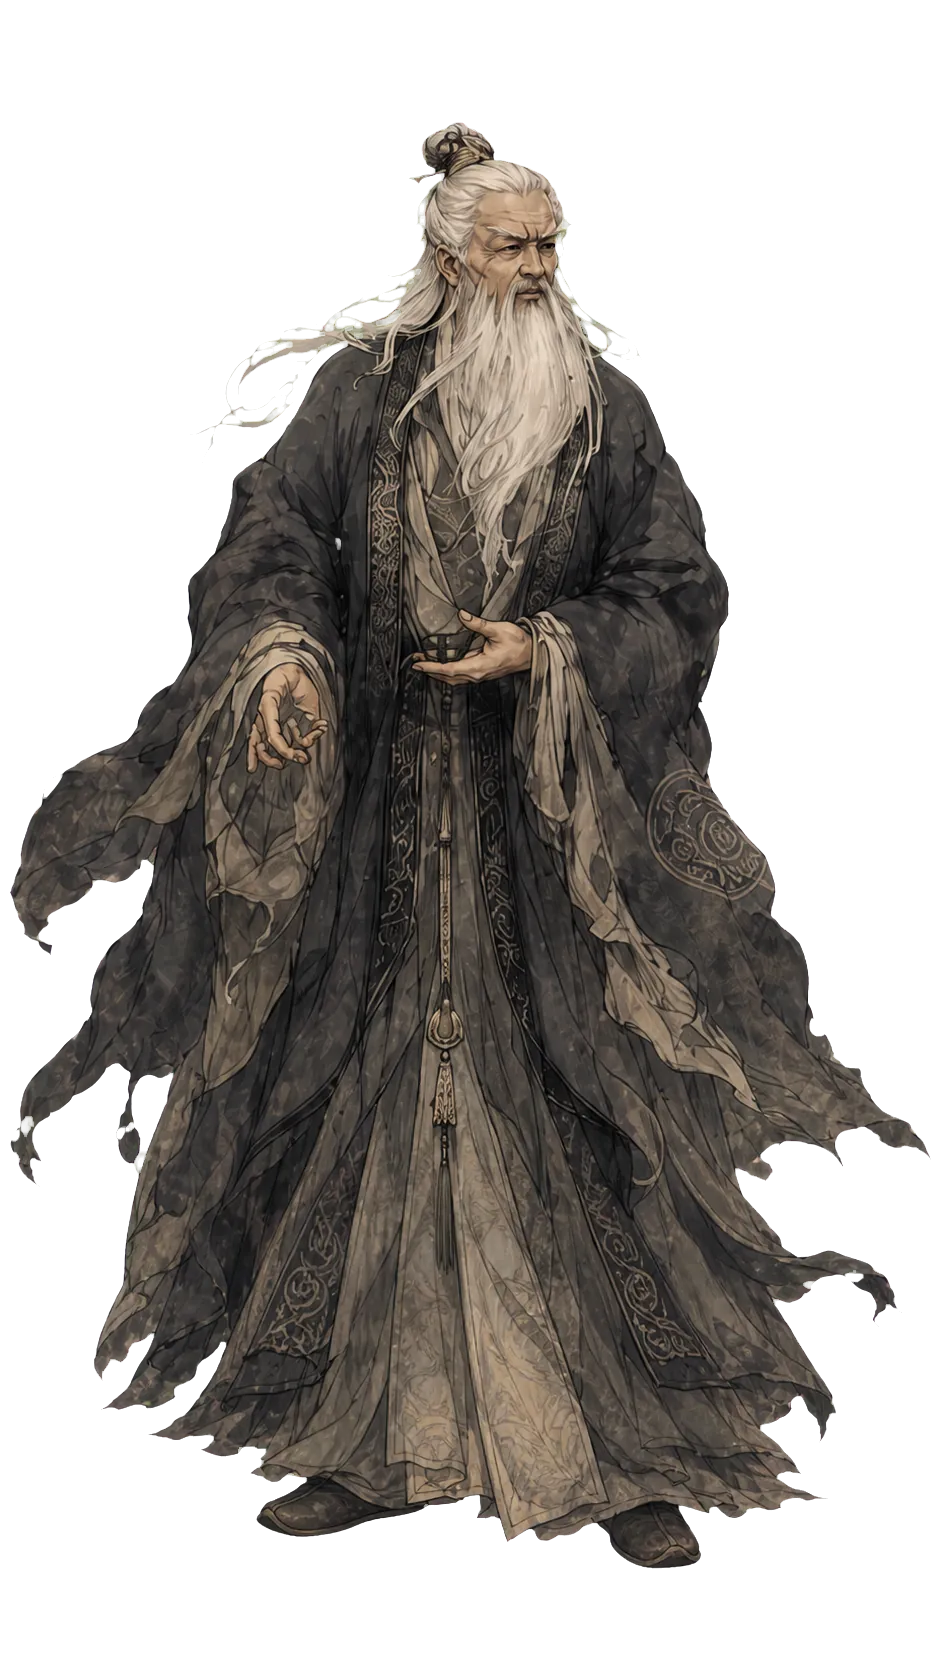
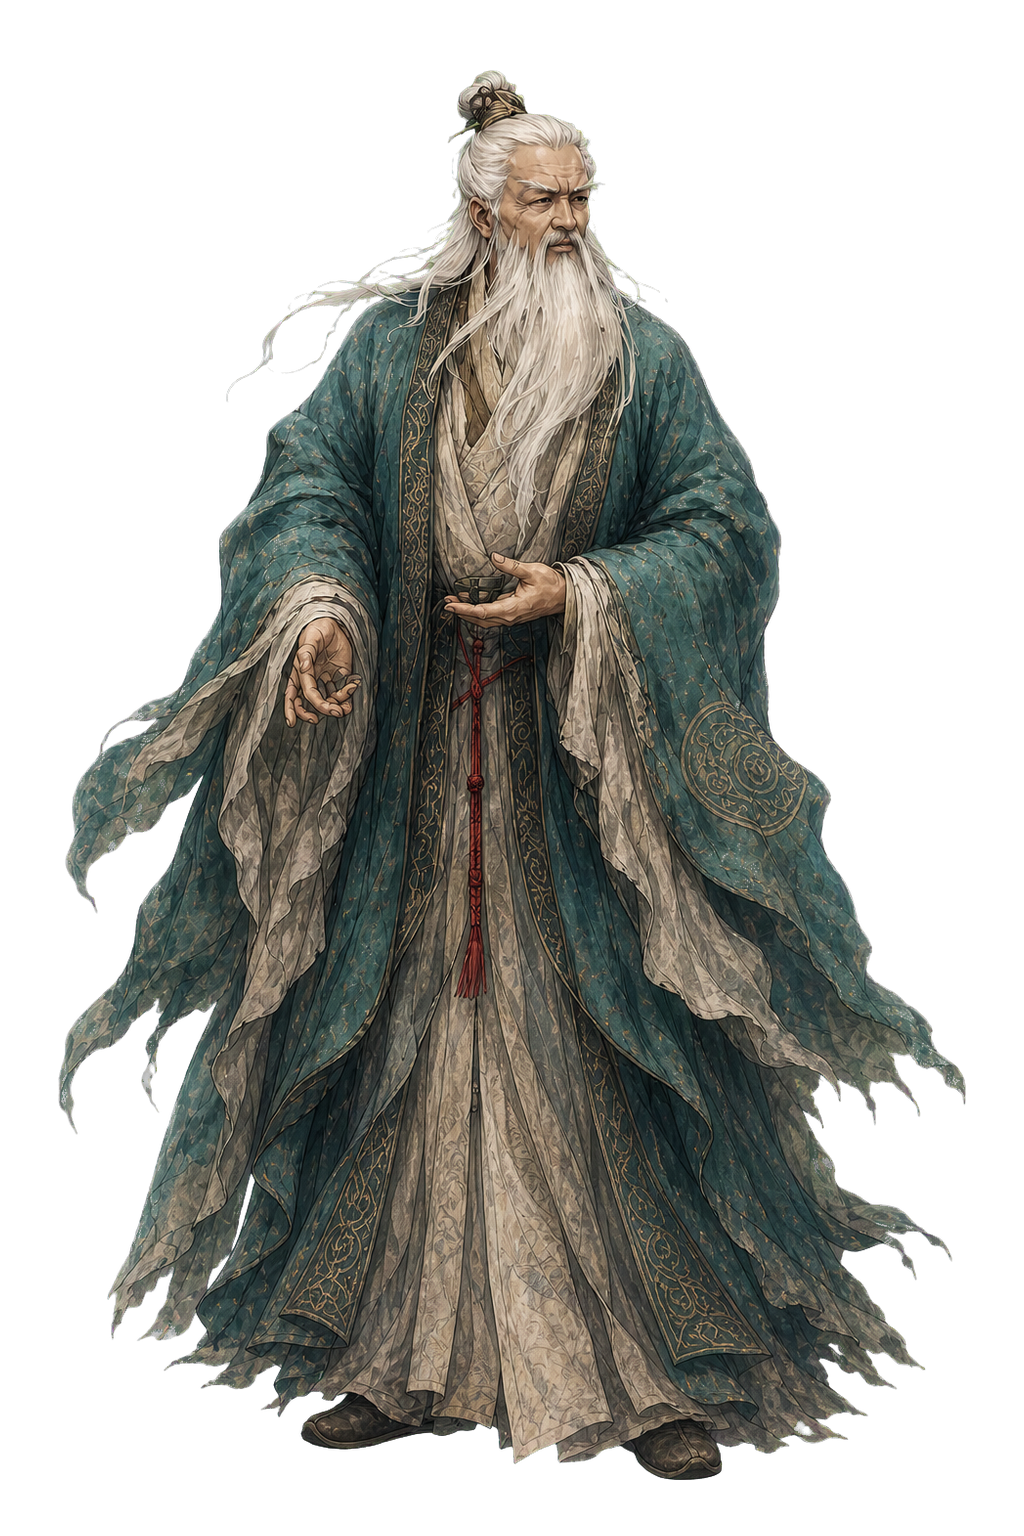
我方 3 张战斗立绘重出接线:批 C 归一体例+冷色相代际统一(BACKLOG 一#14 方案 a)

diff --git a/lib/features/battle/presentation/character_avatar.dart b/lib/features/battle/presentation/character_avatar.dart
@@ -1404,10 +1404,12 @@ const _battleStandeeOverrides = <String, String>{
 const _stageStandeeAnchorFootFraction = 0.95;
 
 double battleStandeeFootFraction(String? path) => switch (path) {
-  WuxiaUi.battleFounderFallback => 0.938,
-  WuxiaUi.battleFirstDiscipleFallback => 0.961,
+  // 2026-08-05 色调代际批:我方三张重出为批 C 归一体例(1024×1536,bbox 上 70/
+  // 下 1480,纵跨 1410),脚底 fraction 三张 PIL 实测均 1480/1536=0.9635。
+  WuxiaUi.battleFounderFallback => 0.9635,
+  WuxiaUi.battleFirstDiscipleFallback => 0.9635,
   WuxiaUi.battleSampleFirstDiscipleStandee => 0.999,
-  WuxiaUi.battleSecondDiscipleFallback => 0.957,
+  WuxiaUi.battleSecondDiscipleFallback => 0.9635,
   WuxiaUi.battleHiddenElderStandee => 0.952,
   WuxiaUi.battleSampleHiddenElderStandee => 0.942,
   WuxiaUi.battleBanditBladeStandee => 0.823,
@@ -1633,17 +1635,11 @@ typedef _StageStandeeSampleAspect = ({
 /// 不改变阵型锚点、状态牌位置或战斗数值。
 _StageStandeeSampleAspect _stageStandeeSampleAspect(String? path) =>
     switch (path) {
-      WuxiaUi.battleFounderFallback => (
-        horizontalScale: 1.30,
-        verticalScale: 0.95,
-      ),
+      // 2026-08-05 色调代际批:我方三张(founder/first/second Fallback)重出为
+      // 批 C 归一画布后,旧画布拉伸补偿移除,走默认 1.0(与批 C 敌立绘同口径)。
       WuxiaUi.battleSampleFirstDiscipleStandee => (
         horizontalScale: 1.0,
         verticalScale: 1.0,
-      ),
-      WuxiaUi.battleSecondDiscipleFallback => (
-        horizontalScale: 1.0,
-        verticalScale: 0.88,
       ),
       WuxiaUi.battleHiddenElderStandee => (
         horizontalScale: 1.12,
@@ -1677,21 +1673,11 @@ _StageStandeeSampleAspect _stageStandeeSampleAspect(String? path) =>
 _StageStandeeOpticalProfile _stageStandeeOpticalProfile(
   String? path,
 ) => switch (path) {
-  WuxiaUi.battleFounderFallback => (
-    scale: 1.40,
-    horizontalShiftFraction: -0.05,
-  ),
-  WuxiaUi.battleFirstDiscipleFallback => (
-    scale: 1.18,
-    horizontalShiftFraction: 0.04,
-  ),
+  // 2026-08-05 色调代际批:我方三张(founder/first/second Fallback)重出为
+  // 批 C 归一画布后,画布留白光学补偿移除,走默认(与批 C 敌立绘同口径)。
   WuxiaUi.battleSampleFirstDiscipleStandee => (
     scale: 1.08,
     horizontalShiftFraction: -0.03,
-  ),
-  WuxiaUi.battleSecondDiscipleFallback => (
-    scale: 1.12,
-    horizontalShiftFraction: 0,
   ),
   WuxiaUi.battleHiddenElderStandee => (scale: 1.14, horizontalShiftFraction: 0),
   WuxiaUi.battleSampleHiddenElderStandee => (

diff --git a/test/features/battle/presentation/character_avatar_test.dart b/test/features/battle/presentation/character_avatar_test.dart
@@ -491,20 +491,23 @@ void main() {
       'assets/enemies/umbrella.png',
     );
 
-    expect(founder.$1, closeTo(1.40, 0.001));
-    expect(firstDisciple.$2, greaterThan(0));
-    expect(firstDisciple.$1, closeTo(1.18, 0.001));
-    expect(secondDisciple.$1, closeTo(1.12, 0.001));
+    // 2026-08-05 色调代际批:我方三张重出为批 C 归一画布,三层补偿全部走默认
+    // (scale 1.0 / shift 0 / aspect 1.0)。机制本身(逐图校准经三个 Transform
+    // 生效)由下方仍持非默认值的敌方标本继续守卫。
+    expect(founder.$1, closeTo(1.0, 0.001));
+    expect(founder.$2, closeTo(0, 0.001));
+    expect(firstDisciple.$1, closeTo(1.0, 0.001));
+    expect(firstDisciple.$2, closeTo(0, 0.001));
+    expect(secondDisciple.$1, closeTo(1.0, 0.001));
     expect(hiddenElder.$1, closeTo(1.14, 0.001));
     expect(banditBlade.$1, closeTo(1.33, 0.001));
     expect(banditBlade.$3, greaterThan(0));
     expect(banditArcher.$1, closeTo(1.28, 0.001));
     expect(umbrellaBoss.$1, closeTo(0.81, 0.001));
-    expect(founder.$2, lessThan(0));
-    expect(founder.$4, closeTo(1.30, 0.001));
-    expect(founder.$5, closeTo(0.95, 0.001));
+    expect(founder.$4, closeTo(1.0, 0.001));
+    expect(founder.$5, closeTo(1.0, 0.001));
     expect(secondDisciple.$4, closeTo(1.0, 0.001));
-    expect(secondDisciple.$5, closeTo(0.88, 0.001));
+    expect(secondDisciple.$5, closeTo(1.0, 0.001));
     expect(hiddenElder.$4, closeTo(1.12, 0.001));
     expect(hiddenElder.$5, closeTo(0.93, 0.001));
     expect(banditBlade.$4, closeTo(1.08, 0.001));

diff --git a/docs/superpowers/plans/2026-08-05-player-standee-imagegen-dispatch.md b/docs/superpowers/plans/2026-08-05-player-standee-imagegen-dispatch.md
@@ -1,0 +1,44 @@
+# Codex image_gen 派单:重出我方 3 张战斗立绘(色调代际统一批)
+
+> 自包含派单:读完本文即可干活。你有 image_gen 工具,自主出图。
+> 性质:in-place 重出候选——**不许动 assets/ 与任何代码/git**,产物只落指定 dispatch 目录。
+
+## 一 · 任务一句话
+
+按塔批 C 同代「水墨厚涂+冷暖双色相」画风,重出玩家侧 3 张战斗立绘(祖师/大弟子/二弟子),解决「我方灰蒙蒙、色相单一(≥95% 挤在红橙暖土桶)」的代际差;人物身份/面容/发型/体型/兵器/站姿大势与各自身份锚**同人不变**。
+
+## 二 · 输入锚(5 张,全为已解码真 PNG)
+
+**身份锚(必须同人,站姿沿此)**:
+1. 祖师:`/Users/a10506/.claude/jobs/1dedbe6d/tmp/anchor_battle_founder_v2.png`(白发长髯老者,宽大道袍,拂袖而立)
+2. 大弟子:`/Users/a10506/.claude/jobs/1dedbe6d/tmp/anchor_battle_first_disciple.png`(黑发束发青年,劲装持剑)
+3. 二弟子:`/Users/a10506/.claude/jobs/1dedbe6d/tmp/anchor_battle_second_disciple.png`(束发少年,布衣佩剑)
+
+**画风/色相结构锚(厚涂+冷暖双色相参照,勿抄人物)**:
+4. `/Users/a10506/Desktop/Projects/挂机武侠/.claude/worktrees/night-songguan-baibu/assets/enemies/tower_boss_zhuifeng_jianyin.png`
+5. `/Users/a10506/Desktop/Projects/挂机武侠/.claude/worktrees/night-songguan-baibu/assets/enemies/tower_boss_youming_panguan.png`
+
+## 三 · 每张的色相方案(三人错开,队伍内区分度)
+
+| 张 | 冷色相主块(占非透明像素 ≥15%) | 点缀 |
+|---|---|---|
+| 祖师 | **青灰**(袍身/大氅主体转青灰调) | 绛红束带或穗一处 |
+| 大弟子 | **青绿**(外袍或披风主块) | 绛红一处 |
+| 二弟子 | **蓝紫**(衣身主块) | 绛红一处 |
+
+保水墨厚涂写实武侠基调,禁卡通化、禁高饱和荧光色;冷色块要像批 C Boss 那样是「衣饰结构块」,不是滤镜罩染。
+
+## 四 · 硬规格(沿塔批 C 体例,逐张必过)
+
+- 1024×1536 RGBA PNG,**四角 alpha 全 0**(标准绿幕抠图+去绿溢色)
+- 单人全身站姿,无文字无水印,枪剑等兵器完整在画布内
+- **批次尺度归一(防「矮一截」坑)**:alpha bbox 上沿 ≈70 / 下沿 ≈1480(脚底 fraction ≈0.9635,单张允差 ±0.005),三张纵跨彼此差 ≤30px;参照锚 4/5 实测均为 bbox(*,70,*,1480) 纵跨 1410
+- 面容/发型/年龄/体型与对应身份锚同人可辨;站姿大势沿锚,允许衣饰细节为色块服务微调
+
+## 五 · 落盘与自检报告(必做)
+
+- 产物目录:`/Users/a10506/Desktop/Projects/挂机武侠/.claude/worktrees/night-songguan-baibu/build/dispatch/player_standee_20260805/`
+- 三个文件名**精确**为:`battle_founder_v2.png` / `battle_first_disciple.png` / `battle_second_disciple.png`
+- `report.md` 逐张记:尺寸/四角 alpha/alpha bbox(注明半开区间口径)/脚底 fraction/纵跨/冷色相主块占比自测(HSV,S≥0.15 且色相落青绿蓝紫区间的像素占非透明像素比)/与身份锚同人说明/终版结论
+- 自检不过硬规格就重出(每张最多 3 次尝试),报告里写明尝试次数
+- **不要**写 assets/、不 checkout、不动代码、不 git 操作
